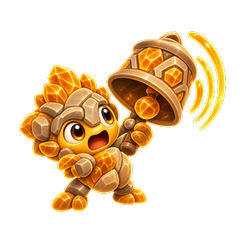
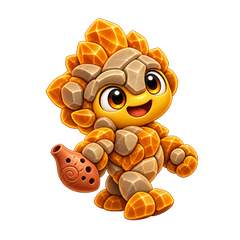
Callers get their own instruments; the fire well returns (Codex brief 17b)
Each Caller now carries its element's instrument: the Conch Seal, Clapper
Sprite, Drum Imp, Whistle Pebble and Bell Mouse (the bell stays metal's),
in a calm walking pose that changes to a calling pose only while it calls.
The metal Caller is matte bronze, no gold, and joins Level 5. The frost
well is the repainted fire one again (basalt rim, lantern lid), and every
sealed well glows warm at the edge.

diff --git a/level1/index.html b/level1/index.html
@@ -2005,14 +2005,17 @@ const KIND = {
   'earth-m':{ n:'Worry Stone',       beh:'roll',   hp:1.4, sp:.85,  minion:1 },
   'metal-m':{ n:'Chime Wraith',      beh:'weave',  hp:1,   sp:1.1,  f:2.4, amp:1, minion:1 }
 };
-// two new families (the Legend Engine plan, Codex brief 17; A, 2026-10-08: "a taste in Levels 4-5"): the Bell Ringer calls
-// reinforcements and runs; the Lantern Wisp fades in where you aren't looking
+// two new families (the Legend Engine plan, Codex brief 17; A, 2026-10-08: "a taste in Levels 4-5"): the Caller calls
+// reinforcements and runs, each with its element's own instrument (brief 17b: the bell is metal's alone); the Lantern Wisp fades in
+// where you aren't looking
 Object.assign(KIND, Object.fromEntries(['water', 'wood', 'fire', 'earth', 'metal'].flatMap(el => [
-  [el + '-r', { n:{ water:'Frost Bell Seal', wood:'Bark Bell Sprite', fire:'Lantern Bell Imp', earth:'Clay Bell Critter', metal:'Bronze Bell Mouse' }[el], beh:'call', hp:1.8, sp:1.15,
+  [el + '-r', { n:{ water:'Conch Seal', wood:'Clapper Sprite', fire:'Drum Imp', earth:'Whistle Pebble', metal:'Bell Mouse' }[el], beh:'call', hp:1.8, sp:1.15,
     short:'Rings its bell to call more creatures', tip:'It rings its bell to call more creatures, then runs away. Free it first!' }],
   [el + '-w', { n:{ water:'Mist Wisp', wood:'Leaf Wisp', fire:'Ember Wisp', earth:'Amber Wisp', metal:'Silver Wisp' }[el], beh:'phase', hp:.7, sp:1.05, f:2, amp:.6,
     short:'Fades in behind you', tip:'It fades in where you are not looking. Watch behind you!' }]])));
-Object.keys(KIND).forEach(k => { load('e-' + k, `art4/e-${k}.png?v=8`); if (!KIND[k].minion) load('e-' + k + '-happy', `art4/happy/e-${k}.png?v=8`); });
+['water', 'wood', 'fire', 'earth', 'metal'].forEach(el => load('e-' + el + '-r-call', `art4/e-${el}-r-call.png?v=2`));   // the Callers' calling pose
+// the Callers were repainted in brief 17b, so their files get a new version and phones fetch the new art
+Object.keys(KIND).forEach(k => { const v = /-r$/.test(k) ? 9 : 8; load('e-' + k, `art4/e-${k}.png?v=${v}`); if (!KIND[k].minion) load('e-' + k + '-happy', `art4/happy/e-${k}.png?v=${v}`); });
 const lookSrc = p => p;   // the bold look is the only look now; kept so image paths have one place to change
 if (!/[?&]towers=0/.test(location.search)) { ['wood', 'fire', 'earth', 'water', 'metal'].forEach(el => { load('x-temple-' + el, `art4/props/x-temple-${el}.png?v=12`); load('x-temple-' + el + '-alive', `art4/props/x-temple-${el}-alive.png?v=1`); }); ['wood', 'fire', 'earth'].forEach(r => load('sf-' + r, `art4/story/story-frost-${r}.jpg?v=8`)); }
 ['x-stone-wood','x-stone-fire','x-stone-earth','x-stone-metal','x-stone-water','x-bloom','x-lantern','x-sword','x-boulder','x-pearl','x-bamboo','x-chest','x-chest-open','x-crate','x-heart','x-shrine-wood','x-shrine-fire','x-shrine-earth','x-shrine-metal','x-shrine-water','x-tower-metal'].forEach(n => load(n, `art4/props/${n}.png?v=8`));
@@ -4945,15 +4948,16 @@ function familiesTick(dt) {
     const m = Math.hypot(P.vx || 0, P.vy || 0), a0 = m > 20 ? Math.atan2(-(P.vy || 0), -(P.vx || 0)) : rnd(0, TAU);
     for (let i = 0; i < 2; i++) { const a = a0 + (i - .5) * .7, e = spawn('critter', { x:P.x + Math.cos(a) * 230, y:P.y + Math.sin(a) * 170 }, 1); if (e) asFamily(e, e.el + '-w'); } }
   if (S.level === 5 && S.t > 35 && (S.ringerT = (S.ringerT ?? 6) - dt) <= 0 && S.en.filter(e => !e.dead && e.K && e.K.beh === 'call').length < 2) { S.ringerT = 24;
-    const e = spawn('wolf', null, 1); if (e) asFamily(e, (e.el === 'metal' ? 'earth' : e.el) + '-r'); }   // the metal Caller waits for its matte-bronze repaint
+    const e = spawn('wolf', null, 1); if (e) asFamily(e, e.el + '-r'); }
   wellTick(dt);
 }
 // the frost well: keeps creatures coming until the Keeper stands on it for two seconds to seal it
-function makeWell() { const Sh = SHRINES[3];   // the earth temple's way (design review, 2026-10-08: the fire well's red rim and crosshair lid read as a warning; back when repainted) ['', '-sealed'].forEach(v => load('x-well-' + Sh.el + v, `art4/props/x-well-${Sh.el}${v}.png?v=1`));
+// the fire temple's way (brief 17b repainted the fire well: basalt rim, lantern lid)
+function makeWell() { const Sh = SHRINES[2]; ['', '-sealed'].forEach(v => load('x-well-' + Sh.el + v, `art4/props/x-well-${Sh.el}${v}.png?v=2`));
   return { el:Sh.el, x:Math.round(TOWER.x + (Sh.x - TOWER.x) * .55), y:Math.round(TOWER.y + 120 + (Sh.y - TOWER.y) * .55), hold:0, cd:2, sealed:false }; }
 function wellTick(dt) {
   const W = S.well; if (!W || W.sealed) return; const P = S.p, d = Math.hypot(P.x - W.x, (P.y - W.y) * 1.4);
-  if (d < 700 && !SEEN.has('_well')) { markSeen('_well'); BANNER.q.unshift({ id:'well', title:'A frost well!', text:'Stand on it to seal it.', pic:`art4/props/x-well-${W.el}.png?v=1` }); BANNER.t = Math.min(BANNER.t, 1.5); }
+  if (d < 700 && !SEEN.has('_well')) { markSeen('_well'); BANNER.q.unshift({ id:'well', title:'A frost well!', text:'Stand on it to seal it.', pic:`art4/props/x-well-${W.el}.png?v=2` }); BANNER.t = Math.min(BANNER.t, 1.5); }
   if (d < 95 && P.hp > 0) { W.hold += dt; if (W.hold >= 2) { W.sealed = true; SFX.fanfare(false); ring(W.x, W.y, 20, 420, GROUND_RING[W.el], .8, 14, true); stars(W.x, W.y - 40, 30, GROUND_RING[W.el], 380); paintThaw(W.x, W.y, 260); return; } }
   else W.hold = Math.max(0, W.hold - dt * 2);
   if (d < 1300 && W.hold <= 0 && (W.cd -= dt) <= 0) { W.cd = 3.5; const aw = Math.atan2(W.y - P.y, W.x - P.x); for (let i = 0; i < 3; i++) { const a = aw + (i - 1) * .5; spawn('critter', { x:W.x + Math.cos(a) * 120, y:W.y + Math.sin(a) * 80 }, 1.1, W.el); }
@@ -7058,7 +7062,7 @@ function draw() {
   // one creature, drawn; drawn again (again = true) when a tower redrawn over the Keeper would hide it
   const drawCreature = (e, again) => {
     // during a Bloom the creatures wear their happy faces, freed of the spell for a moment
-    const art = S.bloom && !e.boss && e.own && ok(IMG[e.img + '-happy']) ? e.img + '-happy' : e.img;
+    const art = S.bloom && !e.boss && e.own && ok(IMG[e.img + '-happy']) ? e.img + '-happy' : e.ringT != null && ok(IMG[e.img + '-call']) ? e.img + '-call' : e.img;
     const im = e.boss || (e.giant && e.own) ? (ok(IMG[e.img]) ? IMG[e.img] : null) : e.own ? tinted(art, '#000', 0) : tinted(art, EL[e.el]), s = e.size, wind = e.act && e.act.ph === 0 ? Math.min(1, e.act.t / e.act.wind) : 0, rolling = e.act && e.act.ph === 1 && e.act.k === 'lane';
     if (!im) return;
     const hk = Math.max(0, 1 - (S.t - (e.hitAt ?? -9)) / .16), bk = Math.max(0, 1 - (S.t - (e.biteAt ?? -9)) / .2), froz = e.frozen > 0;
@@ -9075,7 +9079,7 @@ const BANNER_SAY = { ...Object.fromEntries(['water', 'wood', 'fire', 'earth', 'm
   bloom:'Touch it. Everyone dances!', ult:'It strikes on its own.', giant_rammer:'Dodge its charge, then hit its back.', giant_colossus:'Hit its core when it glows.', giant_alpha:'Free its pack first.' };
 function bannerPic(b) {
   if (b.pic) return b.pic;
-  if (b.card) return `art4/e-${b.card}.png?v=8`;
+  if (b.card) return `art4/e-${b.card}.png?v=${/-r$/.test(b.card) ? 9 : 8}`;
   if (b.id.startsWith('giant_')) { const e = S.en.find(q => q.giant === b.id.slice(6)), im = e && IMG[e.img]; return im ? giantPic(im) : 'art4/e-golem.png?v=8'; }
   return { gem:'art4/icons/icon-spark.png?v=9', shrine:`art4/props/x-shrine-${(S && S.lastShrineEl) || 'water'}.png?v=8`, bloom:'art4/props/x-bloom.png?v=8', ult:`art4/a-${animal}-y.png?v=8`,
     enemy:`art4/e-${(S.en.find(e => !e.boss) || { el:'water' }).el}-a.png?v=8` }[b.id] || null;
